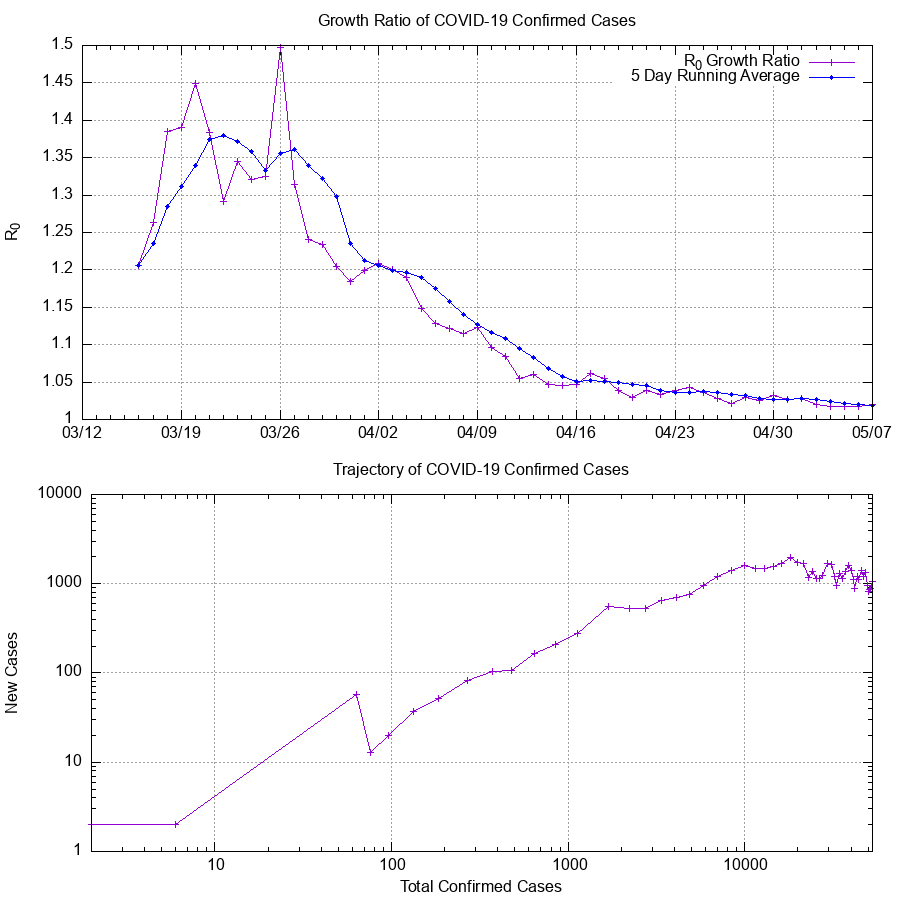
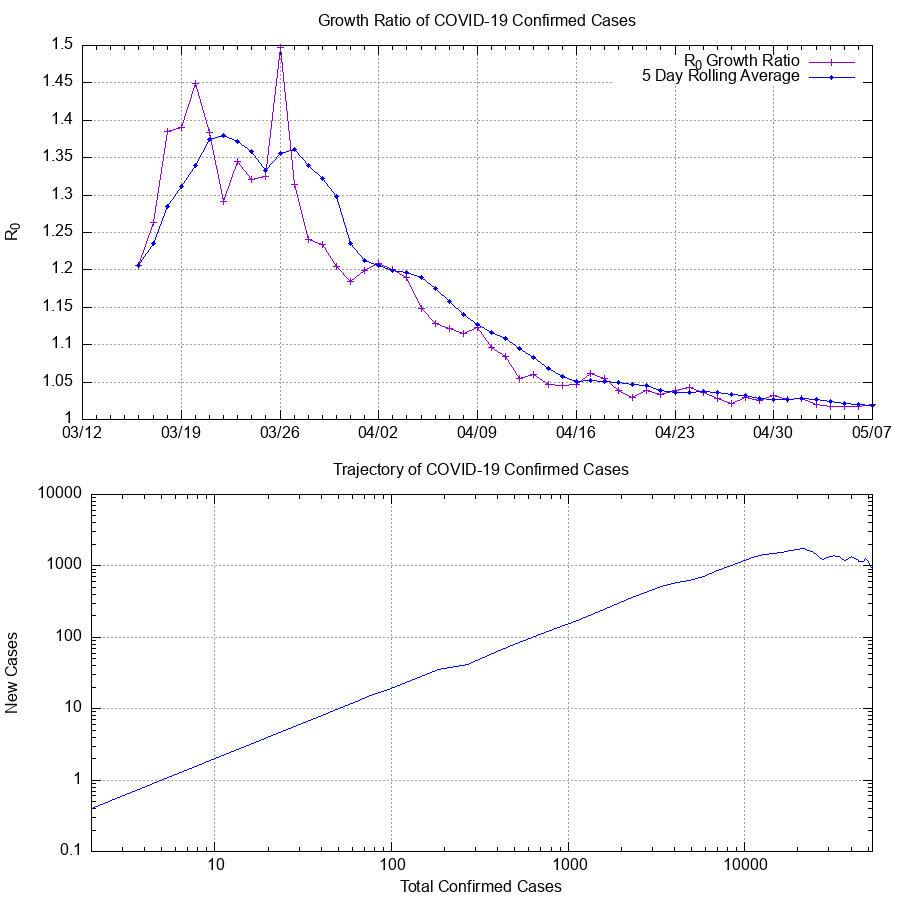
Add averaging to trajectory graph

diff --git a/README.md b/README.md
@@ -173,6 +173,12 @@ reporting performed by actual epidemiologists and data scientists.
   Notably, the plotted output does not change between this and the parent
   commit, strongly indicating that there are no changes to the fundamental data.
 
+- 7 May 2020: Updated plot method for Trajectory graph. This averaging plot
+  (as opposed to the previous exact data plot) more closely matches the ideals
+  and functions behind the original plot design from MinutePhysics. It is a
+  'pessimistic' interpretation of the data, and will therefore show a downturn
+  more clearly when the increase of infection rate is slowing.
+
 ## Sample Output
 ```
 * Map, table and case count last updated at 12:00 p.m. on 3/26/2020
